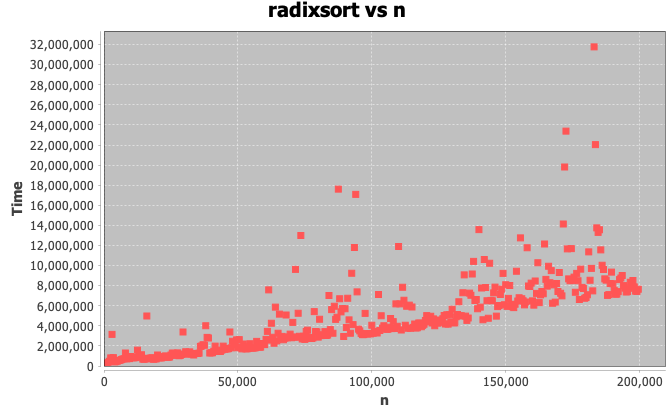
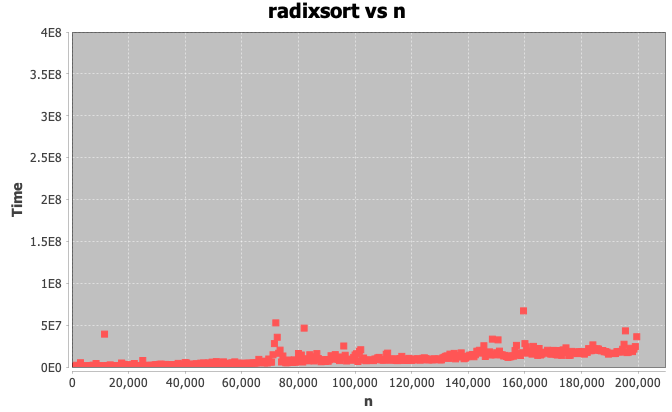
max digits for array items

diff --git a/src/Main.java b/src/Main.java
@@ -16,11 +16,11 @@ public class Main {
         for(int n = 1; n < maxN; n+=interval) {
             int[] arr = new int[n];
             for (int i = 0; i < n; i++) {
-                arr[i] = (int) (Math.random() * 100);
+                arr[i] = (int) (Math.random() * 10000);
             }
             long start = System.nanoTime();
-            quicksort(arr, 0, arr.length - 1);
-            heapSort(arr);
+            // quicksort(arr, 0, arr.length - 1);
+            // heapSort(arr);
             radixsort(arr, arr.length);
 
             long end = System.nanoTime();
@@ -36,8 +36,8 @@ public class Main {
            series.add(p.getX(), p.getY());
         }
         XYSeriesCollection dataset = new XYSeriesCollection(series);
-        // JFreeChart chart = ChartFactory.createScatterPlot("radixsort vs n", "n", "Time", dataset, PlotOrientation.VERTICAL, false, true, true);
-        JFreeChart chart = ChartFactory.createScatterPlot("heapsort vs n", "n", "Time", dataset, PlotOrientation.VERTICAL, false, true, true);
+        JFreeChart chart = ChartFactory.createScatterPlot("radixsort vs n", "n", "Time", dataset, PlotOrientation.VERTICAL, false, true, true);
+        // JFreeChart chart = ChartFactory.createScatterPlot("heapsort vs n", "n", "Time", dataset, PlotOrientation.VERTICAL, false, true, true);
         // JFreeChart chart = ChartFactory.createScatterPlot("Quicksort vs n", "n", "Time", dataset, PlotOrientation.VERTICAL, false, true, true);
         // graph the line of best fit using getOLSRegression()
         

diff --git a/README.md b/README.md
@@ -9,4 +9,4 @@ For each graph, the x axis n is the size of the random array to be sorted, and t
 ![](radixsort.png)
 
 ## Analysis
-Quicksort and heapsort are slower than radixsort for large n. This makes sense, as quicksort and heapsort have average time complexities of O(nlog(n)), whereas radixsort's is O(nbd), where b = number system base, and d = max digits of each array item. Since we are using base 10, and this implementation limits the max array item digits to 3, radixsort is more efficient than the others for large n. 
+Quicksort and heapsort are slower than radixsort for large n. This makes sense, as quicksort and heapsort have average time complexities of O(nlog(n)), whereas radixsort's is O(nbd), where b = number system base, and d = max digits of each array item. Since we are using base 10, and this implementation limits the max array item digits to 5, radixsort is more efficient than the others for large n. 
